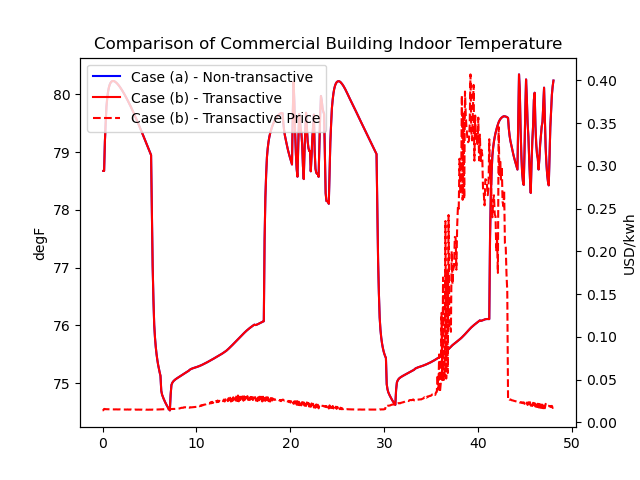
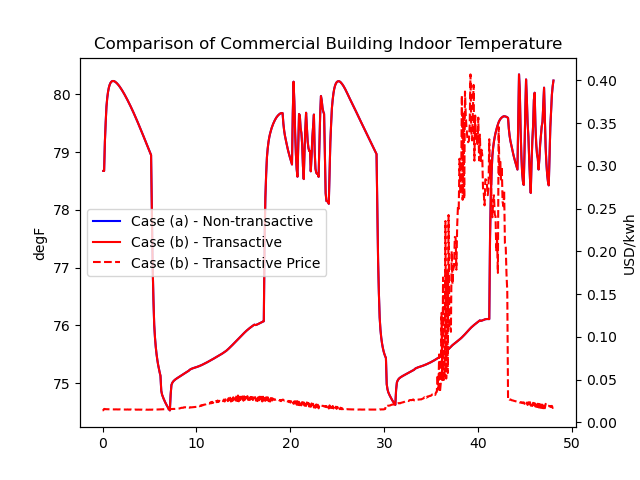
Update legend position on a few graphs.

Changed region(s): [[0.125, 0.125, 0.5312, 0.2812], [0.125, 0.4375, 0.5, 0.5938], [0.125, 0.5, 0.1875, 0.5312]]

diff --git a/src/tesp_support/tesp_support/validation_plots.py b/src/tesp_support/tesp_support/validation_plots.py
@@ -170,7 +170,7 @@ def plot_gen_comparison(data):
                 plt.plot(hrs, a_data_g[4, :, a_idx_g['PGEN_IDX']], color='gray', label='unit 5')
                 plt.ylabel(a_idx_g['PGEN_UNITS'])
                 plt.title('Comparison of Generator Output')
-                plt.legend(loc='upper right')
+                plt.legend(loc='center left')
                 plt.show()
                 logger.info('\tCompleted plot_gen_comparison.')
             else:
@@ -658,7 +658,7 @@ def plot_energy_plus_indoor_temperature(data):
                 lns = ln1 + ln2 + ln3
                 labels = [l.get_label() for l in lns]
                 plt.title('Comparison of Commercial Building Indoor Temperature')
-                ax.legend(lns, labels, loc='upper left')
+                ax.legend(lns, labels, loc='center left')
                 plt.show()
                 logger.info('\tCompleted plot_energy_plus_indoor_temperature.')
             else:
